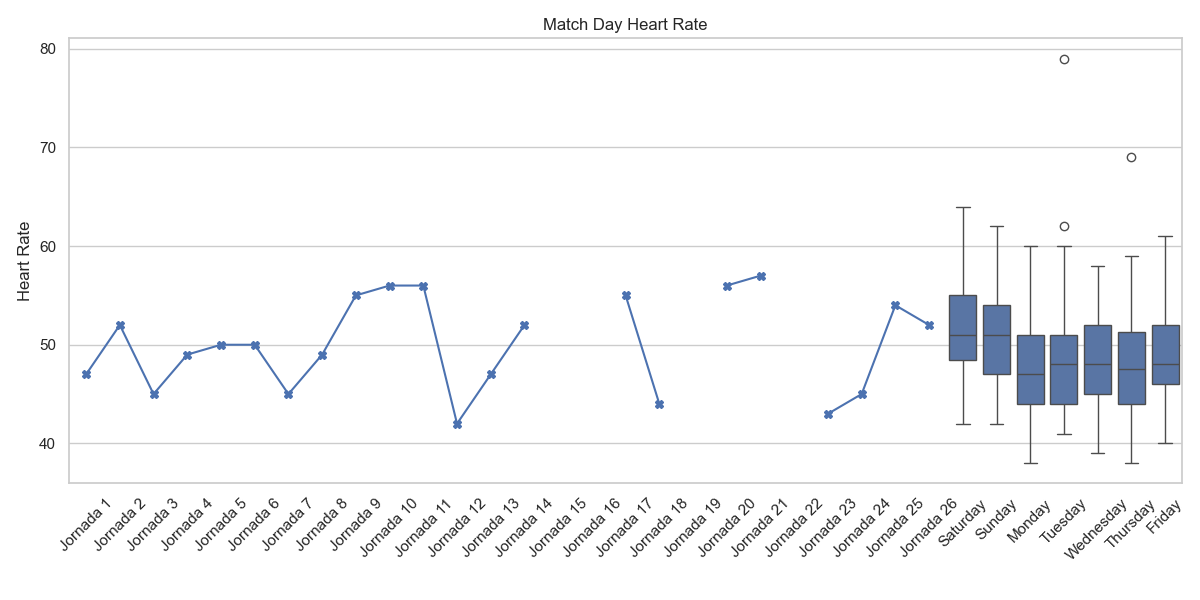
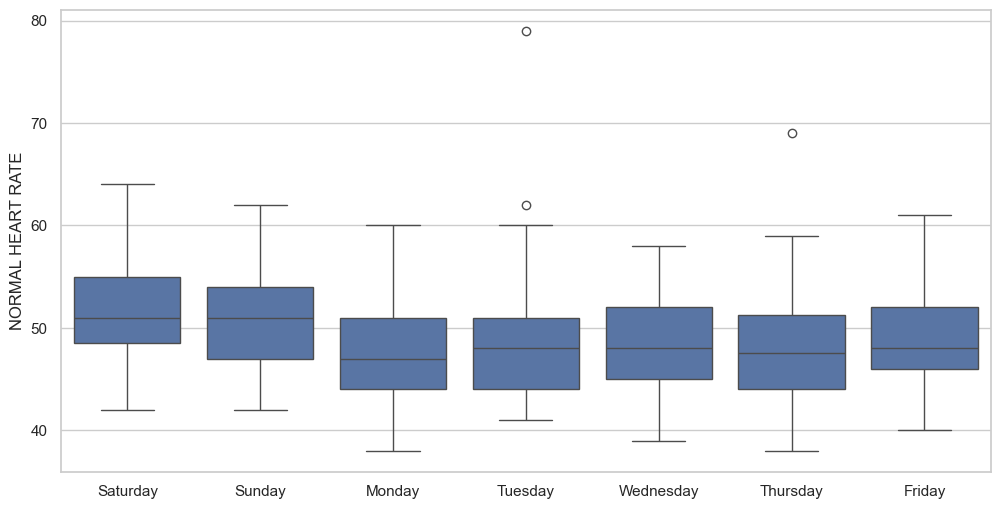
night

diff --git a/src/visualization.py b/src/visualization.py
@@ -39,36 +39,34 @@ def match_heart_rate (merged_df):
     # Show the plot
     plt.xticks(rotation=45)
     plt.tight_layout()
-
-    plt.savefig('images/match_day_heart_evolution.png')
+    
 
 
 def day_hr (df):
    # mitja per dies de la setmana
     sns.boxplot(x="WEEKDAY", y="NORMAL HEART RATE", data=df)
     plt.xlabel('')
-    plt.savefig('images/daily_hr.png')
+    
 
 
-def normal_hr (df_garmin):
-    sns.histplot(x=df_garmin["NORMAL HEART RATE"], bins=20)
+def normal_hr (df):
+    sns.histplot(x=df["NORMAL HEART RATE"], bins=20)
     plt.xlabel('Normal Heart Rate')
     plt.ylabel('')
-    plt.savefig('images/normal_hr_histogram.png')
+    
 
 
-def matchday_hr (merged_df):
-    sns.histplot(x=merged_df["MATCH DAY HEART RATE"], bins=8)
-    plt.savefig('images/matchday_hr_histogram.png')
+def matchday_hr (df):
+    sns.histplot(x=df["MATCH DAY HEART RATE"], bins=8)
+    
 
 
-def join_histplots (df_garmin, merged_df):
+def join_histplots (df_garmin,merged_df):
     # Create a single figure and axis to host the histplots
     fig, ax = plt.subplots()
 
     # Plot the first histplot on the specified axis
     sns.histplot(x=df_garmin["NORMAL HEART RATE"], bins=20, ax=ax)
-
     # Plot the second histplot on the same axis
     sns.histplot(x=merged_df["MATCH DAY HEART RATE"], bins=8, color='orange', ax=ax)
 
@@ -76,7 +74,7 @@ def join_histplots (df_garmin, merged_df):
     ax.set_xlabel("Heart Rate")
     ax.set_ylabel("Frequency")
 
-    plt.savefig('images/normalhr_vs_matchhr.png')
+    
 
 
 def violin_plot (df_garmin, merged_df):
@@ -94,10 +92,6 @@ def violin_plot (df_garmin, merged_df):
 
     # Add legends
     plt.legend()
-
-    # Show the plot
-    plt.savefig('images/violin_chart.png')
-
 
 
 

diff --git a/README.md b/README.md
@@ -1,8 +1,8 @@
 # project_2 - Heart Rate and Futsal Matches
 
 Overview
-The aim of this project is to get a primary database and add information using web scraping in order to make visualizations about both dataset. 
-This project has used a personal database from the heart rate of a wearable (Garmin Watch) for the first database. 
+The aim of this project is to get a primary database and add information using Web Scraping in order to make visualizations about both dataset. 
+This project has used a personal database from the Heart Rate of a wearable (Garmin Watch) for the first database. 
 The second database has been build from the Federació Catalana de Futbol data via Web Scrapping. 
 
 Requirements/Libraries Used:
@@ -24,18 +24,18 @@ FIRST PART - GARMIN DATABASE
 The heart rate database has been downloaded from the app Garmin Connect.
 The first part consisted on cleaning the database in order to get a final and clean dataframe:
 
-    First I got the dirty Garmin database from Garmin Connect.
-    I removed the unwanted columns, modified the DATE and YEAR columns. After that I used another function to rename the columns and have an output where the columns would match to the ones of the second database.
-    Once I had the desired information in the way I wanted, I export the dataframe into a clean csv named df_garmin.csv
+First I got the dirty Garmin database from Garmin Connect.
+I removed the unwanted columns, modified the DATE and YEAR columns. After that I used another function to rename the columns and have an output where the columns would match to the ones of the second database.
+Once I had the desired information in the way I wanted, I export the dataframe into a clean csv named df_garmin.csv
 
 
 SECOND PART - FEDERACIÓ DATABASE
 
-The second part had the aim to get information through web scrapping of the website https://www.fcf.cat/ (Federació Catalana de Futbol).
+The second part had the aim to get information through Web Scrapping of the website https://www.fcf.cat/ (Federació Catalana de Futbol).
 
 I wanted to get all my team results from last years league, this involved 26 rounds. I also wanted to get the number of the round and the date that the match was played. 
 
-With BeautifulSoup I was able to extract all the results from every round, taking in consideration that I only wanted the result of our team (SD ESPANYOL B) and not the other results involved in each round.
+Through out Web Scrapping I was able to extract all the results from every round, taking in consideration that I only wanted the result of our team (SD ESPANYOL B) and not the other results involved in each round.
 
 Once I had the list of the results for every round, I had to extract the DATE in order to now when the match was played.
 I also used BeautifulSoup to extract the Round and the Date of every match. Taking into consideration that had to be our match and not the general weekend, as there are some games played on saturday and some played on sunday for every weekend.
@@ -45,9 +45,9 @@ Once I had the desired information (matches and rounds) I created a dictionary t
 
 THIRD PART - JOIN DATAFRAMES AND VISUALIZATION
 
-Now that I had both dataframes I proceed to import them into a new jupyter notebook (df_garmin and df_federacio). From this point I analyzed different ascpects:
+Now that I had both dataframes clean I proceed to import them into a new notebook (df_garmin and df_federacio). From this point I analyzed different ascpects:
 
-    1. MATCH DAY HEART RATE: 
+1. MATCH DAY HEART RATE: 
     
     I merged the df_federació with the column normal heart rate creating a new column called Match Heart Rate in order to see wich was the heart rate on match days. I displayed this in a chart to see which was the average heart rate in match days. 
     We can see that there isn't a regular heart rate per match day, every match has slightly differnt heart rates. 
@@ -60,7 +60,7 @@ Now that I had both dataframes I proceed to import them into a new jupyter noteb
 
 
 
-    2. DAILY HEART RATE:
+2. DAILY HEART RATE:
 
     With this chart I wanted to analyzed which is the average heart rate per day. 
     We can see that on weekend is where I have the highest average heart rate. Mondays have the lowest average, this is probably due to the fatigue of the weekends match.
@@ -69,7 +69,7 @@ Now that I had both dataframes I proceed to import them into a new jupyter noteb
 
 
 
-    3. HISTOGRAM: AVERAGE HEART RATE VS MATCH DAY HEART RATE:
+3. HISTOGRAM: AVERAGE HEART RATE VS MATCH DAY HEART RATE:
 
     With this histogram I wanted to represent the distribution of the average heart rate and compare it with the distribution of the days that I had match. We can see that in normal days the heart rate are wider going from a minimum of 38 hr/day to a maximum of 78 hr/day. On the other hand, on match days the distribution is narrower going from a minimum of 42 hr/day to a maximum of 57 hr/day. 
 
@@ -79,7 +79,7 @@ Now that I had both dataframes I proceed to import them into a new jupyter noteb
 
  ![image](https://github.com/Miquelpg6/project_2/blob/main/images/normalhr_vs_matchhr.png?raw=true)
 
-    4. VIOLIN PLOT: AVERAGE HEART RATE VS MATCH DAY HEART RATE:
+4. VIOLIN PLOT: AVERAGE HEART RATE VS MATCH DAY HEART RATE:
 
     Violin plot normal heart rate vs match heart rate: In this final Violin plot I represented the difference between the daily heart rate and the match day heart rate. 
     We can see that there is a slightly difference of 2 heartbeats between both averages. If in the previus histogram we could see how the distribution is norrower on match days in this one we can se that the average of match days is higher.
